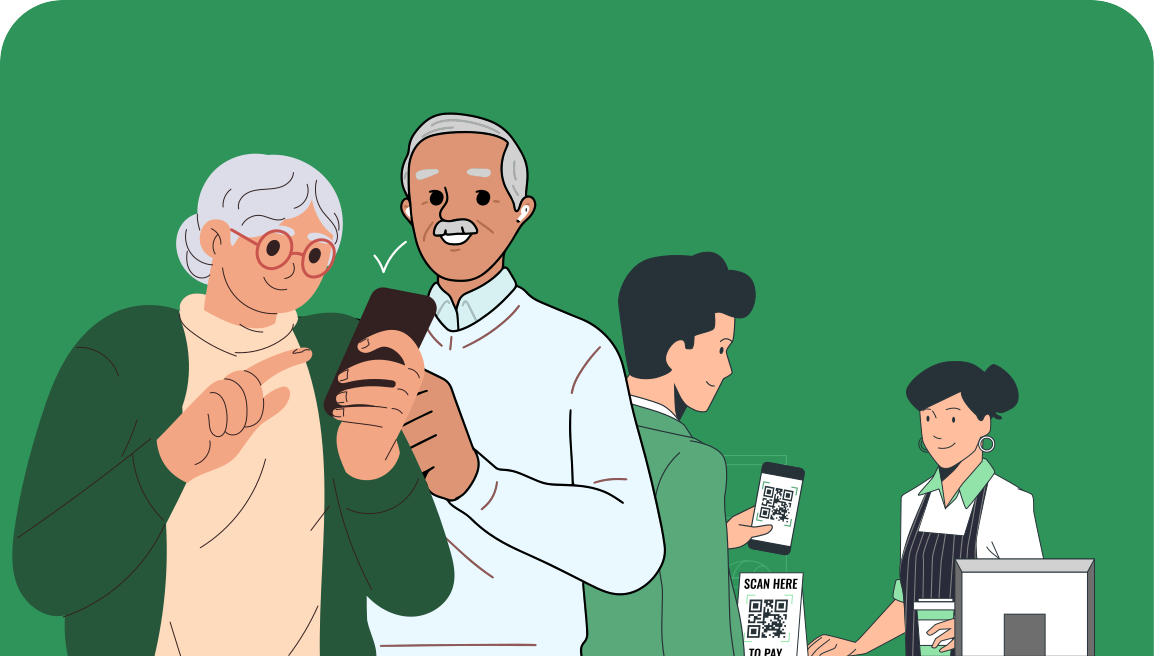
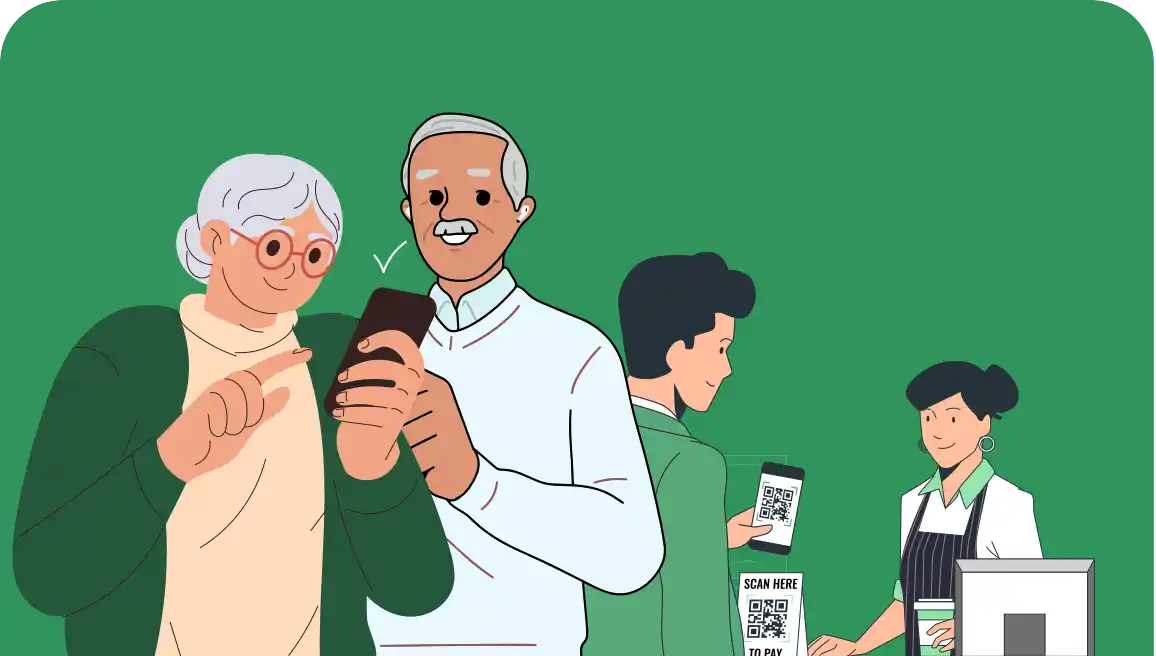
updated compressed images

diff --git a/src/main/resources/templates/newTransportLogistics.html b/src/main/resources/templates/newTransportLogistics.html
@@ -260,7 +260,7 @@
           </div>
         </div>
         <div class="col-md-6 d-none d-md-flex flex-column justify-content-end">
-          <img src="img/fleet-management.png" alt="Group Image" class="img-fluid float-end">
+          <img src="img/fleet-management.webp" alt="fleet-management" class="img-fluid float-end">
         </div>
 		
     </div>
@@ -361,7 +361,7 @@
           </div>
         </div>
 		<div class="col-md-6 d-flex align-items-center justify-content-end px-0">
-		      <img src="img/service_driver.png"
+		      <img src="img/service_driver.webp"
 		           class="img-fluid mt-md-n5 rounded-4 w-100"
 		           style="max-height: 820px; object-fit: cover; border-top-left-radius: 1rem; border-bottom-left-radius: 1rem;"
 		           alt="Hero Image">

diff --git a/src/main/resources/templates/expenseMgmtForCorporates.html b/src/main/resources/templates/expenseMgmtForCorporates.html
@@ -260,7 +260,7 @@
           </div>
         </div>
         <div class="col-md-6 d-none d-md-flex flex-column justify-content-end">
-          <img src="img/Group 1707478019.png" alt="Hero Image" class="img-fluid float-end">
+          <img src="img/Group 1707478019.webp" alt="Hero Image" class="img-fluid float-end">
         </div>
       </div>
     </div>
@@ -362,7 +362,7 @@
           </div>
         </div>
 		<div class="col-md-6 d-flex align-items-center justify-content-end px-0">
-		      <img src="img/women-centre.png"
+		      <img src="img/women-centre.webp"
 		           class="img-fluid mt-md-n5 rounded-4 w-100"
 		           style="max-height: 820px; object-fit: cover; border-top-left-radius: 1rem; border-bottom-left-radius: 1rem;"
 		           alt="Hero Image">
